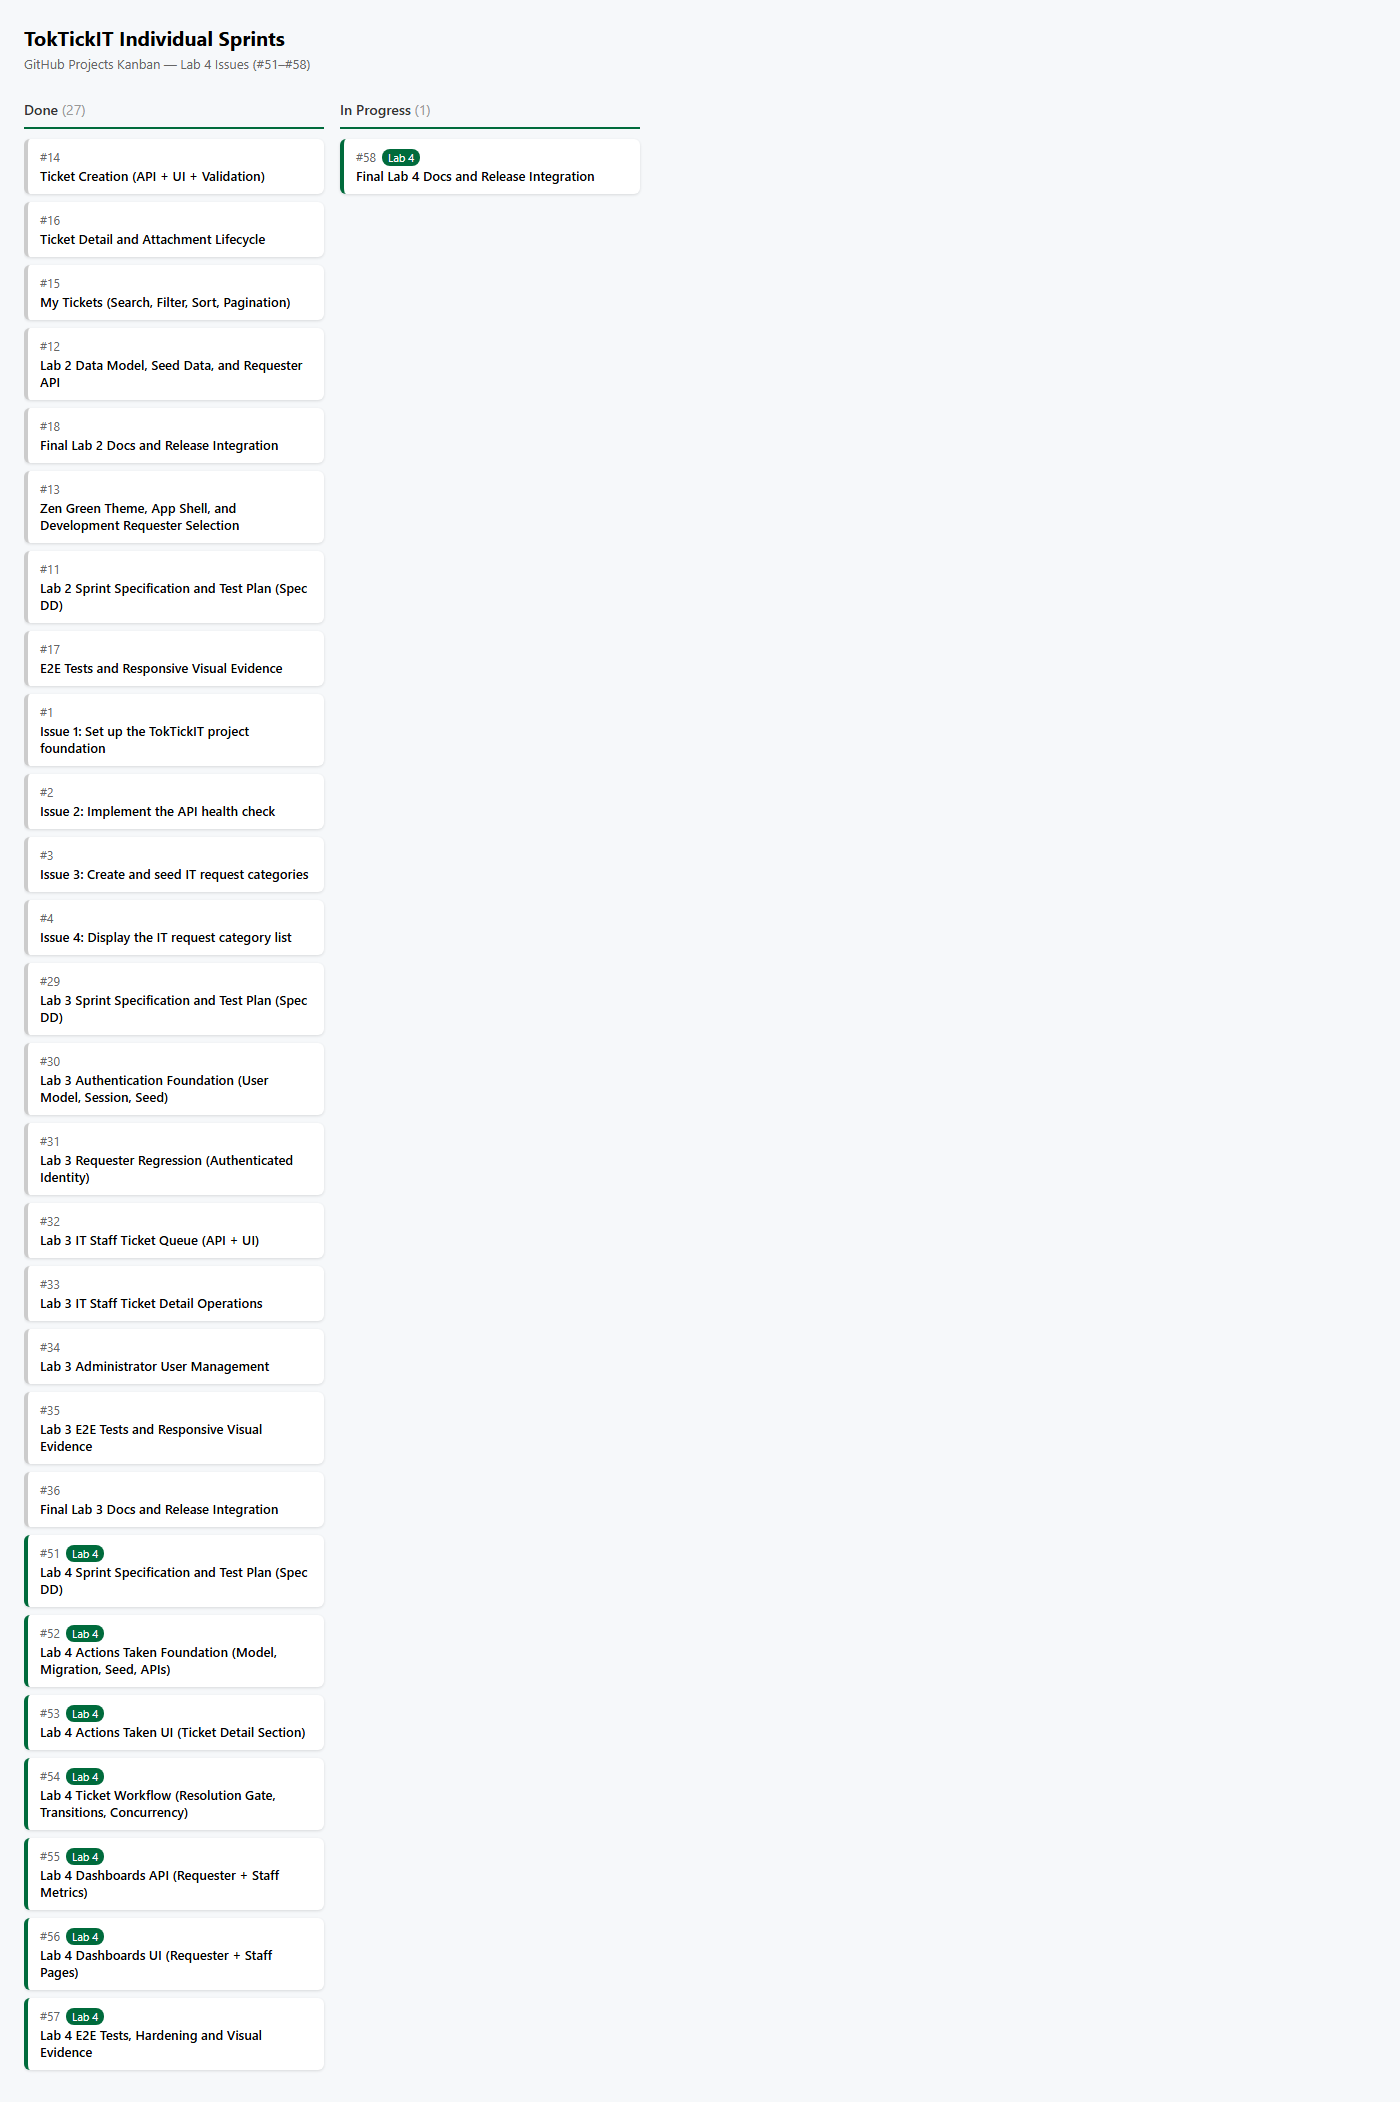
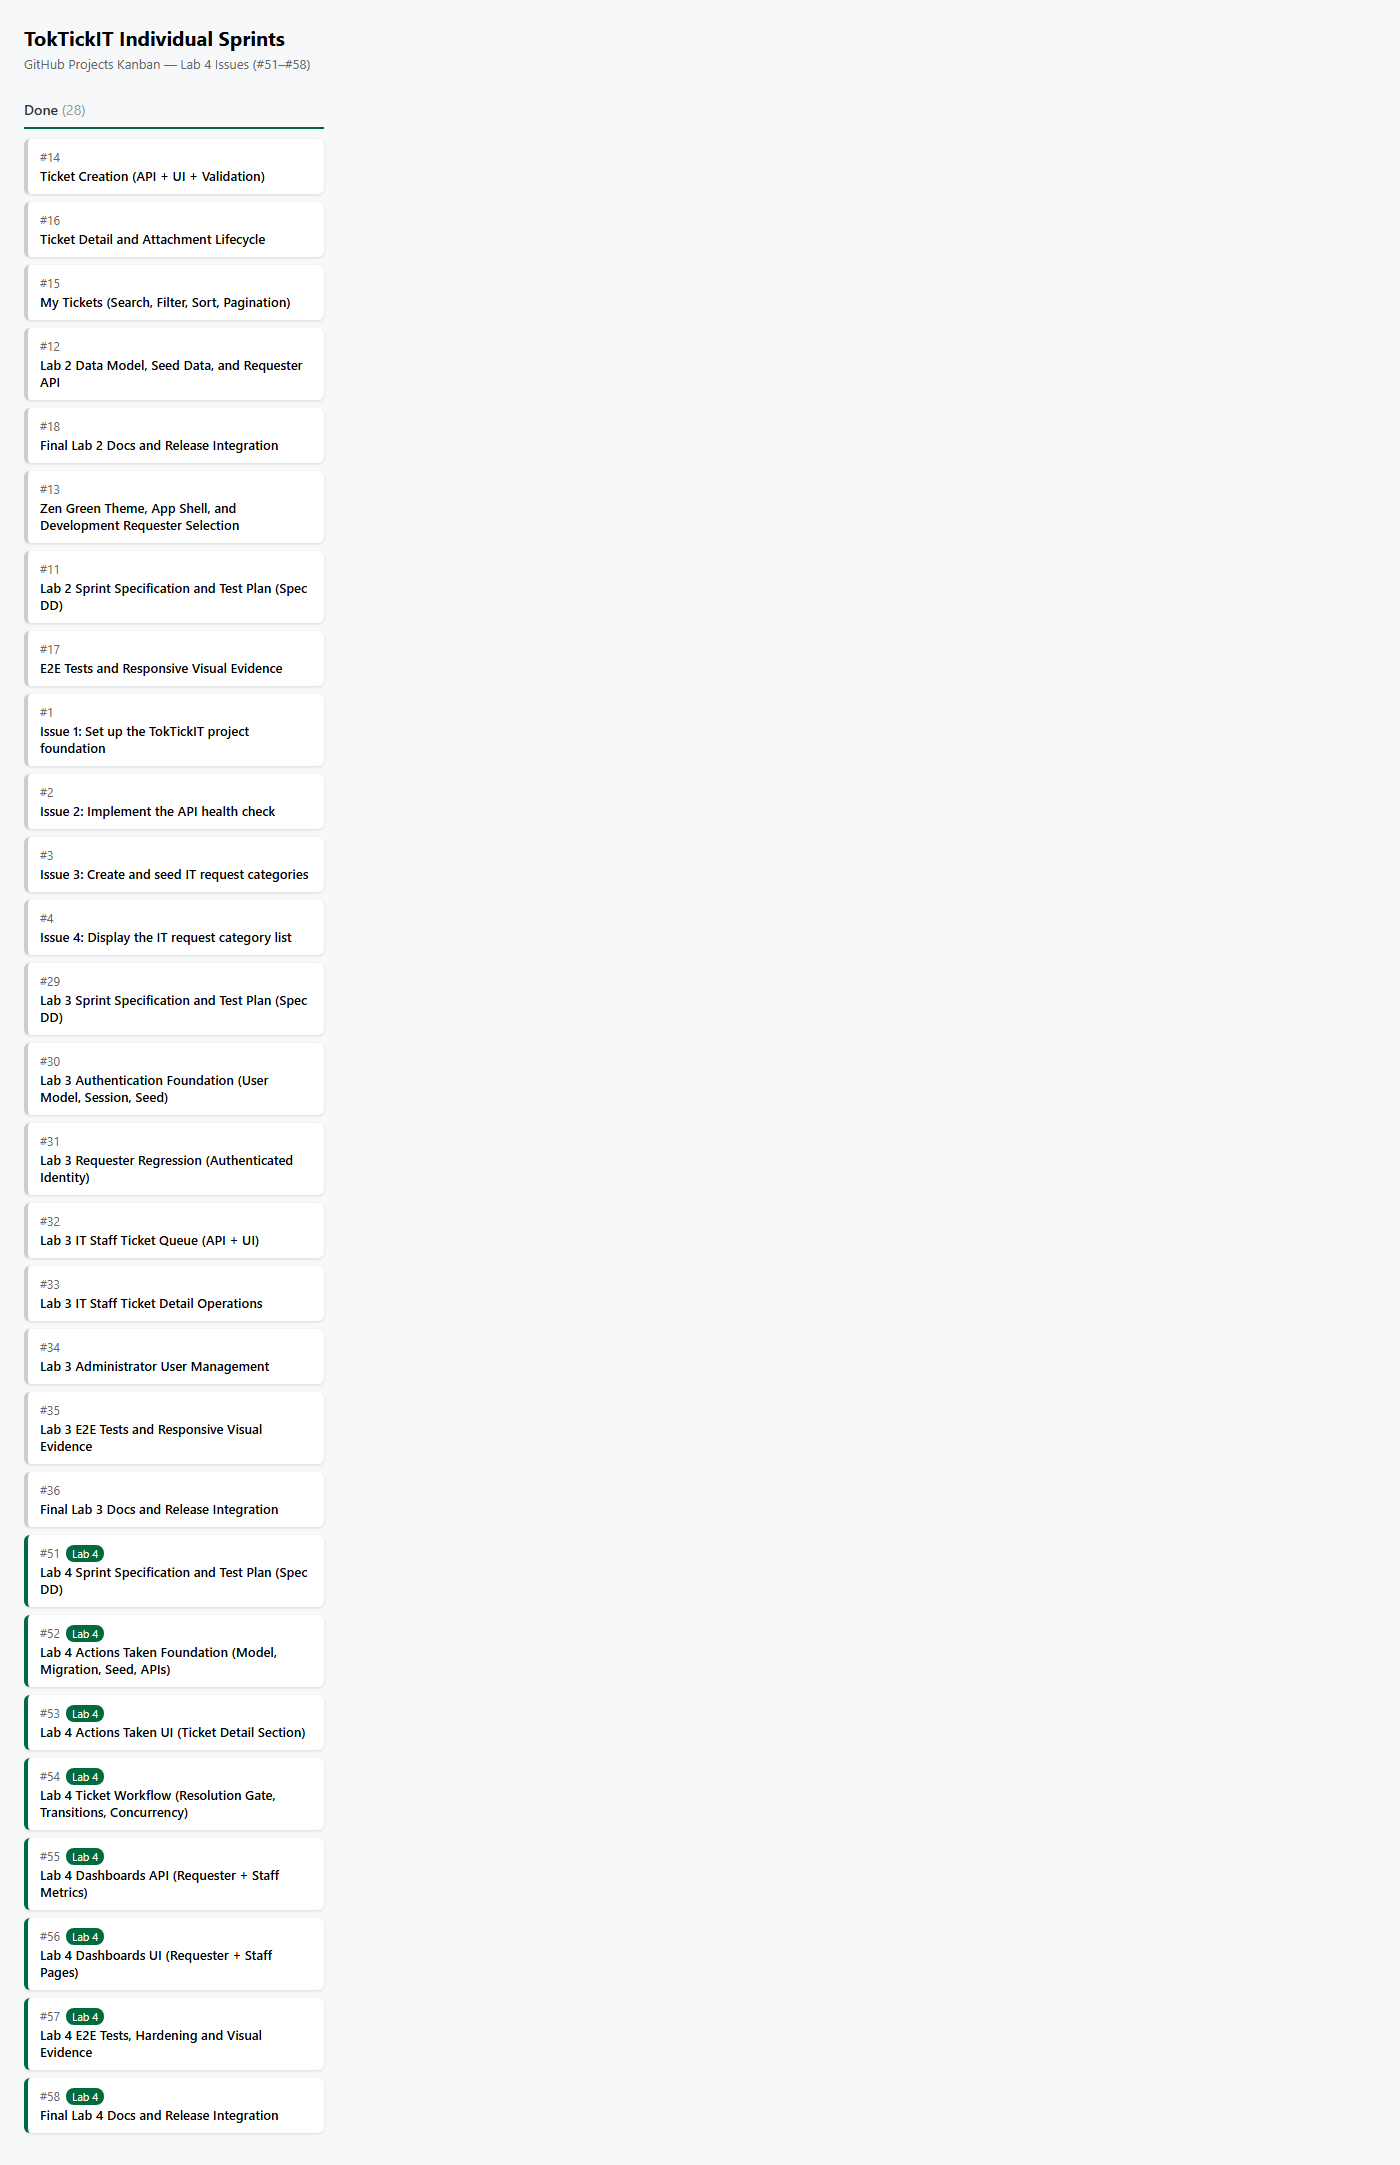
docs: release polish - all-Done kanban capture + release PR #67 in submission date

Changed region(s): [[0.0, 0.0, 0.215, 0.9895], [0.2457, 0.0309, 0.3071, 0.0928]]

diff --git a/docs/lab-04/evidence/submission.tex b/docs/lab-04/evidence/submission.tex
@@ -45,7 +45,7 @@
 \large TokTickIT: Actions Taken, Dashboards, and Final Regression}
 \author{Thanaboon Tikaew (67070501021) --- @thhanabun \\
 Peer reviewer: Siriwan Yindeepot --- @ssiriwan}
-\date{\url{https://github.com/thhanabun/Software_Eng_Lab} --- \texttt{lab4-staging} (release PR TBD)}
+\date{\url{https://github.com/thhanabun/Software_Eng_Lab} --- \texttt{lab4-staging} (release PR \#67)}
 
 \begin{document}
 \maketitle
@@ -101,7 +101,7 @@ branches, every hop through a reviewed Pull Request (PRs \#59--\#65), and one re
 \addlinespace
 \#57 E2E + hardening & \code{feature/lab4-e2e-hardening} & \#65 & Edit step + base + stamp fixed & Yes \\
 \addlinespace
-\#58 Release & \code{feature/lab4-final-docs} & TBD & Release PR & -- \\
+\#58 Release & \code{feature/lab4-final-docs} & \#66 & Release docs + evidence & Yes \\
 \bottomrule
 \end{longtable}
 
